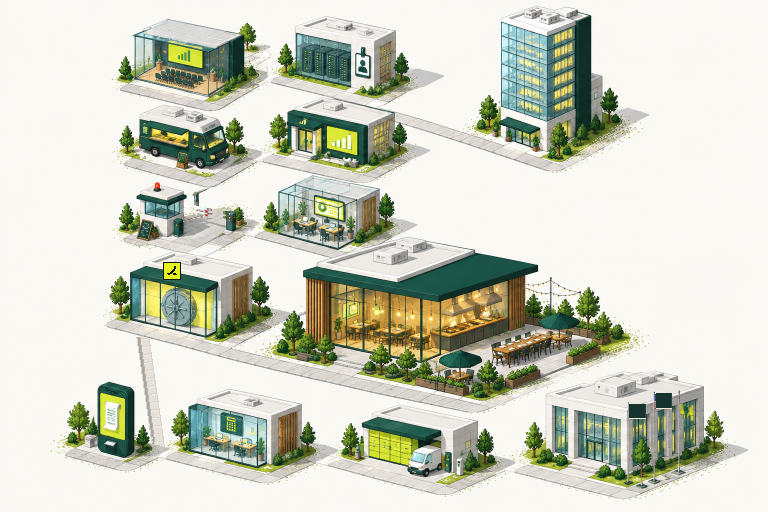
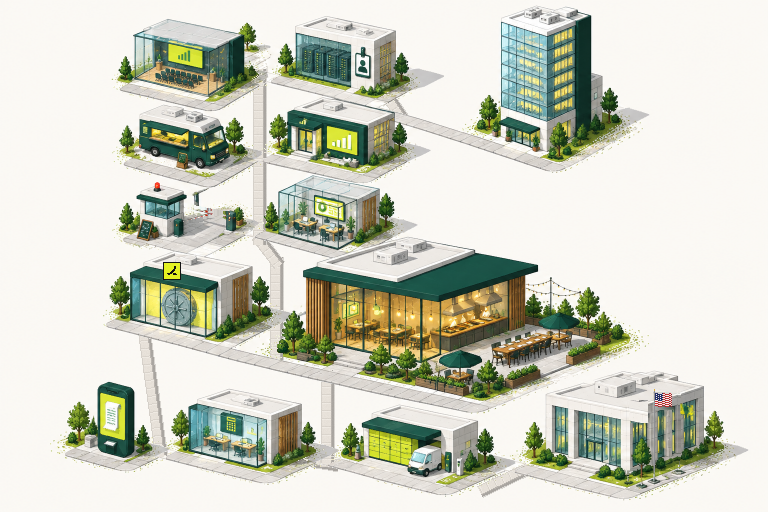
Town map: one connected sidewalk network and one continuous walk
- Walkways in the sidewalks' own material join every block: a spine through the compliance row down to the bank,
  the restaurant sidewalk to the bottom row, and links along the bottom row to the federal building
- The bell's tour follows measured sidewalk centre lines (stops used to sit on building bases), and it is one path
  for the whole dinner, so the bell walks between steps instead of reappearing; it faces the way it walks
- Each step's camera frames its whole walk, including where the bell comes in from
- One real pixel US flag on the federal building; the faded flag and the empty poles are painted out
- Three townsfolk stroll the sidewalks at their own pace

diff --git a/apps/web/lib/town.ts b/apps/web/lib/town.ts
@@ -24,6 +24,16 @@ export const PEOPLE = {
   waiter: { x: 498, y: 374, width: 10, height: 15 },
 };
 
+/**
+ * Townsfolk strolling the sidewalks and back (feet at x, y; they walk dx, dy and turn round). Each takes its own time,
+ * so they never move in step with each other or the trees.
+ */
+export const FOLK = [
+  { look: 0, x: 432, y: 128, dx: 72, dy: 23, every: 17, delay: 2 },
+  { look: 1, x: 296, y: 369, dx: 84, dy: 19, every: 21, delay: 9 },
+  { look: 2, x: 352, y: 467, dx: 88, dy: 20, every: 19, delay: 5 },
+];
+
 /** Evening light: street lamps (bottom-centre of the post) at the back edge of the sidewalks. */
 export const LAMPS: [number, number][] = [[548, 156], [452, 128], [232, 90], [276, 164], [232, 236], [150, 318], [306, 340], [420, 374], [482, 388], [108, 450], [240, 458], [380, 462], [540, 472]];
 /** The checkpoint's boom gate: pivot, arm length, and its closed and lifted angles (degrees). */
@@ -32,67 +42,71 @@ export const GATE = { x: 181, y: 224, length: 46, closed: -13.5, open: -75 } as 
 export const WHEEL = { x: 160, y: 289, size: 34, bar: { x: 175, y: 288, width: 3, height: 36 } } as const;
 
 type Pt = { x: number; y: number };
-type Place = { name: string; region: [number, number, number, number] };
 
-/** Step index → where it happens, the part of town the camera frames, and the station spots in walking order. */
-export const PLACES: Place[] = [
-  { name: 'Halden HQ', region: [390, 70, 650, 200] },
-  { name: 'Compliance row', region: [140, 40, 410, 290] },
-  { name: 'The bank (Ramp)', region: [60, 230, 360, 350] },
-  { name: 'The restaurant', region: [180, 290, 560, 420] },
-  { name: 'The phone kiosk', region: [50, 320, 470, 505] },
-  { name: 'The accounting office', region: [60, 395, 350, 505] },
-  { name: 'Parcel depot to the federal building', region: [300, 385, 720, 505] },
-];
+/** Each step's place, for the image's alt text. The camera frames a step from its walk, so no regions are needed. */
+export const PLACES = ['Halden HQ', 'Compliance row', 'The bank (Ramp)', 'The restaurant', 'The phone kiosk', 'The accounting office', 'Parcel depot to the federal building'].map((name) => ({ name }));
 
 /**
- * The walk for each step, along the town's sidewalks: [x, y, station]. A station point is where a check happens; the
- * others are corners. Each step's walk starts where the previous one ended.
+ * The bell's tour of town, one leg per step, along the centre lines of the sidewalks and walkways ([x, y, station]).
+ * Each leg starts where the previous one ended, so the whole dinner is one continuous walk: HQ, down the compliance
+ * spine, the bank, the restaurant, back past the bank to the kiosk, along the bottom row to the federal building.
  */
 export const ROUTES: [number, number, 0 | 1][][] = [
-  [[560, 165, 0], [530, 156, 1], [500, 147, 1], [470, 138, 1], [440, 129, 1], [400, 118, 0]],
-  [[300, 97, 0], [212, 98, 1], [342, 100, 1], [262, 100, 0], [262, 168, 0], [212, 170, 1], [342, 172, 1], [256, 172, 0], [256, 244, 0], [212, 244, 1], [340, 246, 1]],
-  [[288, 248, 0], [288, 328, 0], [232, 330, 1], [200, 329, 1], [168, 328, 1], [138, 327, 1]],
-  [[200, 330, 0], [252, 336, 0], [300, 352, 0], [340, 368, 1], [400, 380, 1], [455, 392, 1], [505, 400, 1]],
-  [[455, 392, 0], [300, 352, 0], [252, 336, 0], [145, 338, 0], [152, 394, 0], [160, 451, 0], [140, 458, 1], [118, 462, 1], [98, 462, 1], [84, 458, 1]],
-  [[120, 462, 0], [165, 462, 0], [188, 464, 1], [210, 467, 1], [232, 469, 1], [254, 469, 1], [276, 467, 1], [298, 464, 1]],
-  [[330, 464, 0], [352, 467, 1], [400, 474, 1], [450, 478, 1], [505, 478, 0], [600, 482, 1]],
+  [[535, 161, 0], [510, 153, 1], [480, 144, 1], [450, 134, 1], [420, 124, 1], [401, 117, 0], [389, 100, 0]],
+  [[340, 94, 0], [300, 86, 0], [270, 80, 0], [259, 82, 0], [222, 104, 0], [188, 103, 1], [222, 104, 0], [259, 84, 0], [322, 90, 1], [259, 84, 0],
+    [259, 160, 0], [232, 172, 0], [196, 180, 1], [232, 172, 0], [259, 160, 0], [300, 165, 1], [259, 162, 0], [259, 238, 0], [215, 242, 1], [259, 238, 0], [296, 243, 1]],
+  [[259, 239, 0], [276, 262, 0], [276, 360, 0], [232, 354, 1], [204, 345, 1], [176, 340, 1], [150, 334, 1]],
+  [[200, 344, 0], [276, 364, 0], [345, 378, 1], [395, 391, 1], [440, 401, 1], [482, 407, 1]],
+  [[440, 401, 0], [360, 383, 0], [276, 364, 0], [200, 344, 0], [146, 336, 0], [152, 394, 0], [160, 452, 0], [150, 459, 0], [140, 463, 1], [125, 466, 1], [110, 462, 1], [96, 457, 1]],
+  [[125, 466, 0], [150, 459, 0], [170, 456, 0], [188, 461, 1], [210, 466, 1], [232, 470, 1], [254, 475, 1], [266, 478, 0], [280, 472, 1], [300, 462, 1]],
+  [[334, 464, 0], [360, 468, 1], [410, 479, 1], [452, 488, 1], [484, 489, 0], [524, 470, 0], [545, 475, 0], [585, 482, 1], [600, 489, 0]],
 ];
 
-
+/** The whole tour as one path: its points, the length along it at each point, and where each leg starts and ends. */
+const TOUR = (() => {
+  const pts: Pt[] = [], along: number[] = [], legs: { from: number; to: number; stations: number[] }[] = [];
+  for (const leg of ROUTES) {
+    const from = along.at(-1) ?? 0, stations: number[] = [];
+    for (const [x, y, station] of leg) {
+      const last = pts.at(-1);
+      along.push(last ? along.at(-1)! + Math.hypot(x - last.x, y - last.y) : 0);
+      pts.push({ x, y });
+      if (station) stations.push(pts.length - 1);
+    }
+    legs.push({ from, to: along.at(-1)!, stations });
+  }
+  return { pts, along, legs, total: along.at(-1)!, d: pts.map((q, i) => `${i ? 'L' : 'M'}${q.x} ${q.y}`).join(' ') };
+})();
 
 export type Camera = { x: number; y: number; scale: number };
 
-/** The camera for a step: scale and offset that frame its place in a w×h viewport. */
+/** The camera for a step: frames that step's whole walk (from where the bell comes in) and the buildings above it. */
 export function camera(step: number, w: number, h: number, overview = false): Camera {
-  const [x0, y0, x1, y1] = overview ? [0, 0, TOWN.width, TOWN.height] : (PLACES[step] ?? PLACES[0]!).region;
-  const scale = Math.min(3.2, (w * 0.9) / (x1 - x0), (h * 0.86) / (y1 - y0));
+  const leg = ROUTES[step] ?? ROUTES[0]!, prev = ROUTES[step - 1]?.at(-1);
+  const xs = [...leg, ...(prev ? [prev] : [])].map((q) => q[0]), ys = [...leg, ...(prev ? [prev] : [])].map((q) => q[1]);
+  const [x0, y0, x1, y1] = overview ? [0, 0, TOWN.width, TOWN.height] : [Math.min(...xs) - 40, Math.min(...ys) - 85, Math.max(...xs) + 40, Math.max(...ys) + 30];
+  const scale = Math.min(3, (w * 0.92) / (x1 - x0), (h * 0.88) / (y1 - y0));
   return { scale, x: w / 2 - ((x0 + x1) / 2) * scale, y: h / 2 - ((y0 + y1) / 2) * scale };
 }
 
 /**
- * Screen geometry for one step: the station points, the walk through them along the sidewalks (starting where the
- * previous step ended), and each station's position along the walk (0–100). stops[0] is the start, stops[i + 1] is
- * station i, and the walk's end is 100. `view` overrides the camera when the viewer has dragged or zoomed the town.
+ * Geometry for one step. The path (artD) is the whole tour, the same for every step, so the bell never jumps: it walks
+ * from wherever it is to wherever it is going. stops[0] is where this step's leg starts, stops[i + 1] is station i, and
+ * the last stop is where the leg ends, all as a percentage of the whole tour. `view` overrides the camera after the
+ * viewer drags or zooms.
  */
 export function townPath(step: number, count: number, w: number, h: number, overview = false, view?: Camera | null) {
-  const cam = view ?? camera(step, w, h, overview), route = ROUTES[step] ?? ROUTES[0]!;
-  const art: Pt[] = [...(step > 0 ? [ROUTES[step - 1]!.at(-1)!] : []), ...route].map(([x, y]) => ({ x, y }));
-  const at = [0];
-  for (let i = 1; i < art.length; i++) at.push(at[i - 1]! + Math.hypot(art[i]!.x - art[i - 1]!.x, art[i]!.y - art[i - 1]!.y));
-  const total = at.at(-1) || 1, offset = step > 0 ? 1 : 0;
-  const spots = route.flatMap(([x, y, s], i) => (s ? [{ x, y, along: at[i + offset]! }] : []));
-  // More stations than spots: the extras line up a few steps past the last spot, along the sidewalk.
+  const cam = view ?? camera(step, w, h, overview), leg = TOUR.legs[step] ?? TOUR.legs[0]!;
+  const pct = (l: number) => (l / TOUR.total) * 100;
+  // More stations than spots: the extras line up a few steps past the last spot.
   const stations = Array.from({ length: Math.max(1, count) }, (_, i) => {
-    const s = spots[Math.min(i, spots.length - 1)]!, extra = Math.max(0, i - spots.length + 1);
-    return { x: s.x + extra * 14, y: s.y + extra * 2, along: Math.min(total, s.along + extra * 14) };
+    const k = leg.stations[Math.min(i, leg.stations.length - 1)]!, extra = Math.max(0, i - leg.stations.length + 1);
+    return { x: TOUR.pts[k]!.x + extra * 14, y: TOUR.pts[k]!.y + extra * 3, along: TOUR.along[k]! };
   });
-  const toScreen = (p: Pt) => ({ x: cam.x + p.x * cam.scale, y: cam.y + p.y * cam.scale });
-  const artD = art.map((q, i) => `${i ? 'L' : 'M'}${q.x} ${q.y}`).join(' ');
   return {
-    points: stations.map(toScreen),
-    stops: [0, ...stations.map((s) => (s.along / total) * 100), 100],
+    points: stations.map((p) => ({ x: cam.x + p.x * cam.scale, y: cam.y + p.y * cam.scale })),
+    stops: [pct(leg.from), ...stations.map((s) => pct(s.along)), pct(leg.to)],
     camera: cam,
-    artD,
+    artD: TOUR.d,
   };
 }

diff --git a/apps/web/components/dinner-map.tsx b/apps/web/components/dinner-map.tsx
@@ -13,7 +13,7 @@ import { openFlag, STEPS, stepOf, usd, type Role } from '../lib/dinner';
 import { AUDIT_STEP, cardLimitOf, changedStations, dayOf, EASE_STANDARD, headcountOf, layoutPath, nameOf, restingStation, sourceOf, speakerOf, STEP_KEYS, stationsFor, thinkingLines, type DinnerState, type DocRef, type Station } from '../lib/map';
 import { AppBar, readRole, setRoleCookie } from './app-bar';
 import { Bell, BELL_FRAMES } from './bell';
-import { BELL_ART, camera as frameOf, GATE, LAMPS, LIFE, PEOPLE, PLACES, TOWN, TREE_LAYERS, WHEEL, townPath, type Camera } from '../lib/town';
+import { BELL_ART, camera as frameOf, FOLK, GATE, LAMPS, LIFE, PEOPLE, PLACES, TOWN, TREE_LAYERS, WHEEL, townPath, type Camera } from '../lib/town';
 import { DocCard } from './doc-card';
 import { RampCard } from './ramp-card';
 import { Stamp, type StampTone } from './stamp';
@@ -45,6 +45,7 @@ function Walker({ pathRef, trailRef, target, startAtZero, paced, alert, onClick,
   const body = useRef<HTMLDivElement>(null);
   const position = useRef<number | null>(null);
   const wasAtStart = useRef(false);
+  const lastX = useRef<number | null>(null);
   const [frame, setFrame] = useState(0);
 
   useLayoutEffect(() => {
@@ -68,17 +69,19 @@ function Walker({ pathRef, trailRef, target, startAtZero, paced, alert, onClick,
           setPrints((list) => [...list.slice(-30), { id, x: Math.round(p.x + side), y: Math.round(p.y + 1) }]);
         }
       }
+      if (art) { const dx = p.x - (lastX.current ?? p.x); if (Math.abs(dx) > 0.2) facing = dx < 0 ? -1 : 1; lastX.current = p.x; }
       sprite.style.transform = `scaleX(${facing})`;
       if (trail) trail.style.strokeDashoffset = String(total - length);
     };
     const to = (target / 100) * total;
-    if (position.current === null) { place(startAtZero ? 0 : to); if (!startAtZero) return; }
-    else if (startAtZero && !wasAtStart.current) place(0);
+    // In town the bell never jumps: it appears where it belongs once, then always walks there along the sidewalks.
+    if (position.current === null) { place(startAtZero && !art ? 0 : to); if (!startAtZero || art) return; }
+    else if (startAtZero && !wasAtStart.current && !art) place(0);
     wasAtStart.current = startAtZero;
     const from = position.current!;
-    facing = to < from ? -1 : 1;
+    if (!art) facing = to < from ? -1 : 1;
     if (Math.abs(to - from) < 1 || window.matchMedia('(prefers-reduced-motion: reduce)').matches) { place(to); setFrame(0); return; }
-    const duration = paced ? WALK_MS - tokens['motion/duration/fast'] / 2 : art ? Math.min(4000, Math.max(600, Math.abs(to - from) * 18)) : Math.min(1500, Math.max(420, Math.abs(to - from) * 3)), start = performance.now();
+    const duration = paced ? WALK_MS - tokens['motion/duration/fast'] / 2 : art ? Math.min(6500, Math.max(600, Math.abs(to - from) * 11)) : Math.min(1500, Math.max(420, Math.abs(to - from) * 3)), start = performance.now();
     let raf = 0;
     const tick = (now: number) => {
       const t = Math.min(1, (now - start) / duration), eased = t < 0.5 ? 2 * t * t : 1 - (-2 * t + 2) ** 2 / 2, length = from + (to - from) * eased;
@@ -338,7 +341,7 @@ export function DinnerMap({ planId }: { planId: string }) {
   const showDecision = canDecide && decisionOpen && picked === null;
 
   const resting = picked ?? (shown === step ? restingStation(stations) : stations.length - 1);
-  const target = run?.exit ? 100 : geometry.stops[(run ? run.at : resting) + 1] ?? 0;
+  const target = run?.exit ? geometry.stops.at(-1)! : geometry.stops[(run ? run.at : resting) + 1] ?? geometry.stops[0]!;
   const visible = (i: number) => !run || run.step !== shown || (run.recheck ? !run.recheck.includes(i) : i < run.seen);
   // The gate: down until the red-flag check has been seen clear; held down (beacon racing) while it is flagged.
   const redFlags = shown === 1 ? stations.findIndex((s) => s.name === 'Red flags') : -1;
@@ -522,6 +525,7 @@ export function DinnerMap({ planId }: { planId: string }) {
                   {/* The bank's vault wheel turns when the card is issued. */}
                   <img key={`wheel-${vaultTurn}`} src="/town/wheel.png" alt="" width={WHEEL.size} height={WHEEL.size} draggable={false} className={`absolute [image-rendering:pixelated] ${vaultTurn ? 'covers-vault' : ''}`} style={{ left: WHEEL.x, top: WHEEL.y }} />
                   <img src="/town/mullion.png" alt="" width={WHEEL.bar.width} height={WHEEL.bar.height} draggable={false} className="absolute [image-rendering:pixelated]" style={{ left: WHEEL.bar.x, top: WHEEL.bar.y }} />
+                  {FOLK.map((f, n) => <i key={`folk-${n}`} className="covers-stroll absolute" style={{ left: f.x - 5, top: f.y - 15, width: 10, height: 15, backgroundImage: `url(/town/folk-${f.look}.png)`, backgroundSize: '20px 15px', imageRendering: 'pixelated', '--dx': `${f.dx}px`, '--dy': `${f.dy}px`, animationDuration: `calc(var(--motion-duration-slow) * ${f.every * 2}), var(--motion-duration-slow)`, animationDelay: `calc(var(--motion-duration-slow) * ${-f.delay * 2}), 0s` } as React.CSSProperties} />)}
                   {PEOPLE.far.map(([x, y, look], n) => <img key={`far-${n}`} src={`/town/diner-${look}.png`} alt="" width={5} height={6} draggable={false} className="absolute [image-rendering:pixelated]" style={{ left: x - 2, top: y - 6 }} />)}
                   {PEOPLE.near.map(([x, y, look], n) => <img key={`near-${n}`} src={`/town/diner-back-${look}.png`} alt="" width={5} height={5} draggable={false} className="absolute [image-rendering:pixelated]" style={{ left: x - 2, top: y - 5 }} />)}
                   <i className="covers-waiter absolute" style={{ left: PEOPLE.waiter.x, top: PEOPLE.waiter.y - PEOPLE.waiter.height, width: PEOPLE.waiter.width, height: PEOPLE.waiter.height, backgroundImage: 'url(/town/waiter.png)', backgroundSize: `${PEOPLE.waiter.width * 2}px ${PEOPLE.waiter.height}px`, imageRendering: 'pixelated' }} />
@@ -529,7 +533,7 @@ export function DinnerMap({ planId }: { planId: string }) {
                     <path ref={pathRef} d={geometry.artD} fill="none" stroke="none" />
                     <path key={`trail-${shown}`} ref={trailRef} d={geometry.artD} fill="none" stroke="none" />
                   </svg>
-                  <Walker key={`bell-${shown}-${size.w}-${size.h}`} art pathRef={pathRef} trailRef={trailRef} target={target} startAtZero={run?.at === -1} paced={!!run} alert={mine && !decisionOpen} onClick={() => setDecisionOpen(true)} />
+                  <Walker key={`bell-${size.w}-${size.h}`} art pathRef={pathRef} trailRef={trailRef} target={target} startAtZero={run?.at === -1} paced={!!run} alert={mine && !decisionOpen} onClick={() => setDecisionOpen(true)} />
                 </div>
                 {stations.map((s, i) => {
                   const p = geometry.points[i]!, seen = visible(i), mark = seen ? s.mark : 'waiting';

diff --git a/apps/web/app/globals.css b/apps/web/app/globals.css
@@ -50,10 +50,16 @@
   0% { transform: translate(0, 0) scaleX(1); } 45% { transform: translate(52px, -18px) scaleX(1); }
   50% { transform: translate(52px, -18px) scaleX(-1); } 95% { transform: translate(0, 0) scaleX(-1); } 100% { transform: translate(0, 0) scaleX(1); }
 }
+/* Townsfolk stroll a sidewalk and back at their own pace (distance and timing come from the element). */
+@keyframes covers-stroll {
+  0% { transform: translate(0, 0) scaleX(1); } 46% { transform: translate(var(--dx), var(--dy)) scaleX(1); }
+  50% { transform: translate(var(--dx), var(--dy)) scaleX(-1); } 96% { transform: translate(0, 0) scaleX(-1); } 100% { transform: translate(0, 0) scaleX(1); }
+}
+.covers-stroll { animation-name: covers-stroll, covers-waiter-legs; animation-timing-function: steps(160, end), steps(2, end); animation-iteration-count: infinite, infinite; }
 @keyframes covers-waiter-legs { from { background-position: 0 0; } to { background-position: -20px 0; } }
 .covers-waiter { animation: covers-waiter-walk calc(var(--motion-duration-slow) * 20) steps(80, end) infinite, covers-waiter-legs calc(var(--motion-duration-slow)) steps(2, end) infinite; }
 @media (prefers-reduced-motion: reduce) {
   .covers-waiter,
-  .covers-rustle, .covers-blink, .covers-twinkle, .covers-steam, .covers-vault, .covers-glow, .covers-blink-fast { animation: none; }
+  .covers-rustle, .covers-blink, .covers-twinkle, .covers-steam, .covers-vault, .covers-glow, .covers-blink-fast, .covers-stroll { animation: none; }
   .covers-stamp, .covers-card, .covers-charge, .covers-line, .covers-flash { animation: none; }
 }
